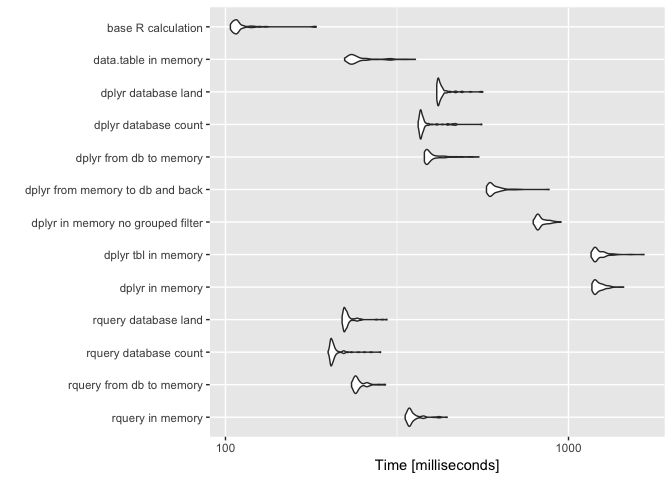
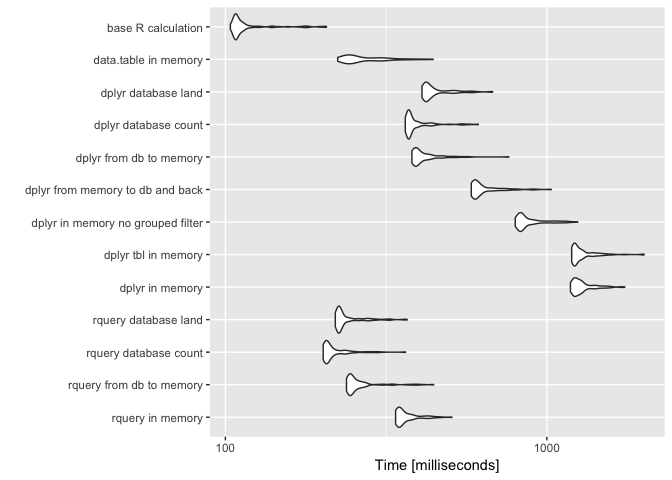
fix

diff --git a/extras/QTimingFollowup/QTiming.md b/extras/QTimingFollowup/QTiming.md
@@ -221,7 +221,6 @@ base_r_calculate <- function(.) {
     }
     if(is.null(res)) {
       res <- data.frame(subjectID = di$subjectID,
-                        probability = di$probability,
                         totalProb = di$probability,
                         bestScore = di$probability,
                         diagnosis = ci,
@@ -231,7 +230,7 @@ base_r_calculate <- function(.) {
          (!all(di$subjectID == res$subjectID))) {
         stop("base_r_calculate saw irregular data")
       }
-      change <- di$probability > res$probability
+      change <- di$probability > res$bestScore
       res$diagnosis[change] <- ci
       res$bestScore <- base::pmax(res$bestScore, 
                                   di$probability)
@@ -576,33 +575,33 @@ print(tm)
 
     ## Unit: milliseconds
     ##                               expr       min        lq      mean    median
-    ##                   rquery in memory  334.1647  341.3915  352.8966  345.6721
-    ##           rquery from db to memory  233.1291  238.1438  245.5712  241.0541
-    ##              rquery database count  199.2574  202.7939  208.5357  204.8367
-    ##               rquery database land  218.7993  221.7240  227.9928  223.9128
-    ##                    dplyr in memory 1170.2533 1191.4094 1227.1228 1210.1410
-    ##                dplyr tbl in memory 1163.8400 1191.8942 1232.2004 1203.9675
-    ##  dplyr in memory no grouped filter  789.1251  810.6329  832.8824  819.5475
-    ##   dplyr from memory to db and back  576.6763  587.8465  609.6689  597.0787
-    ##            dplyr from db to memory  380.0923  384.8038  404.3639  390.5359
-    ##               dplyr database count  364.5660  369.8106  383.3781  372.4496
-    ##                dplyr database land  412.9613  416.5123  428.1614  419.6974
-    ##               data.table in memory  222.6391  231.2268  247.3955  236.4102
-    ##                 base R calculation  103.3688  105.8873  111.3837  107.8619
+    ##                   rquery in memory  338.5778  345.0848  366.3083  352.5776
+    ##           rquery from db to memory  238.1384  242.9598  263.2348  248.3051
+    ##              rquery database count  201.5620  205.1261  219.3199  207.8607
+    ##               rquery database land  219.8073  224.3644  240.6531  227.4856
+    ##                    dplyr in memory 1184.5901 1218.1610 1294.3855 1259.1721
+    ##                dplyr tbl in memory 1195.1735 1216.3445 1299.4138 1239.3117
+    ##  dplyr in memory no grouped filter  797.7003  823.3247  887.9344  838.6137
+    ##   dplyr from memory to db and back  582.2046  593.7035  641.3167  606.4866
+    ##            dplyr from db to memory  380.5071  388.6457  418.5102  397.8149
+    ##               dplyr database count  362.8623  369.7437  393.7041  374.8956
+    ##                dplyr database land  409.0511  419.2396  453.5904  426.4157
+    ##               data.table in memory  223.6260  239.5823  271.6285  250.7280
+    ##                 base R calculation  103.6687  107.3793  117.8552  108.7494
     ##         uq       max neval
-    ##   354.2675  442.7954   100
-    ##   247.3242  292.6800   100
-    ##   207.4279  283.2240   100
-    ##   227.4590  295.6404   100
-    ##  1252.2385 1448.1387   100
-    ##  1258.7511 1660.0235   100
-    ##   851.5627  950.9684   100
-    ##   619.1018  877.7501   100
-    ##   407.0184  548.0586   100
-    ##   378.0282  558.5397   100
-    ##   427.3272  562.3572   100
-    ##   248.5532  357.8896   100
-    ##   110.0546  183.8431   100
+    ##   376.7631  506.7574   100
+    ##   262.8230  444.6093   100
+    ##   222.1878  363.6475   100
+    ##   241.3619  367.6876   100
+    ##  1315.0064 1747.4000   100
+    ##  1306.6853 2006.2742   100
+    ##   907.5601 1248.0352   100
+    ##   653.5436 1031.8507   100
+    ##   428.0231  762.1354   100
+    ##   395.1924  612.0238   100
+    ##   461.2342  678.1096   100
+    ##   299.2129  442.9820   100
+    ##   114.0765  206.3084   100
 
 ``` r
 autoplot(tm)

diff --git a/extras/QTimingFollowup/plotexample.md b/extras/QTimingFollowup/plotexample.md
@@ -87,9 +87,9 @@ knitr::kable(summary)
 
 | expr                              |  durationMS|  relativeDuration|
 |:----------------------------------|-----------:|-----------------:|
-| base R calculation                |    111.3837|          1.000000|
-| data.table in memory              |    247.3955|          2.221111|
-| rquery in memory                  |    352.8966|          3.168298|
-| dplyr from memory to db and back  |    609.6689|          5.473594|
-| dplyr in memory no grouped filter |    832.8824|          7.477599|
-| dplyr tbl in memory               |   1232.2004|         11.062667|
+| base R calculation                |    117.8552|          1.000000|
+| data.table in memory              |    271.6285|          2.304765|
+| rquery in memory                  |    366.3083|          3.108122|
+| dplyr from memory to db and back  |    641.3167|          5.441566|
+| dplyr in memory no grouped filter |    887.9344|          7.534115|
+| dplyr tbl in memory               |   1299.4138|         11.025514|
